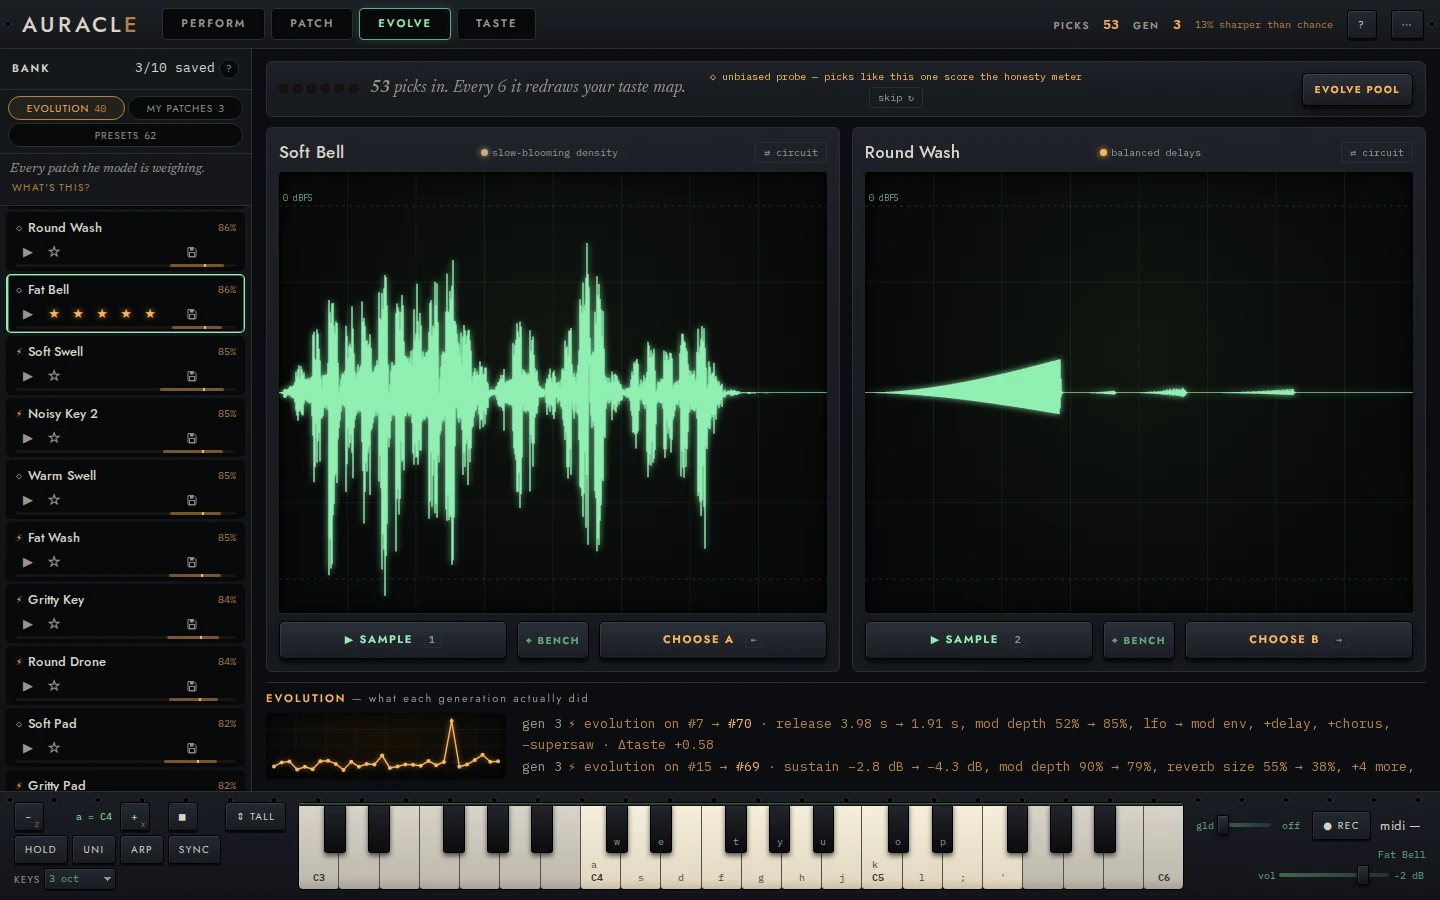
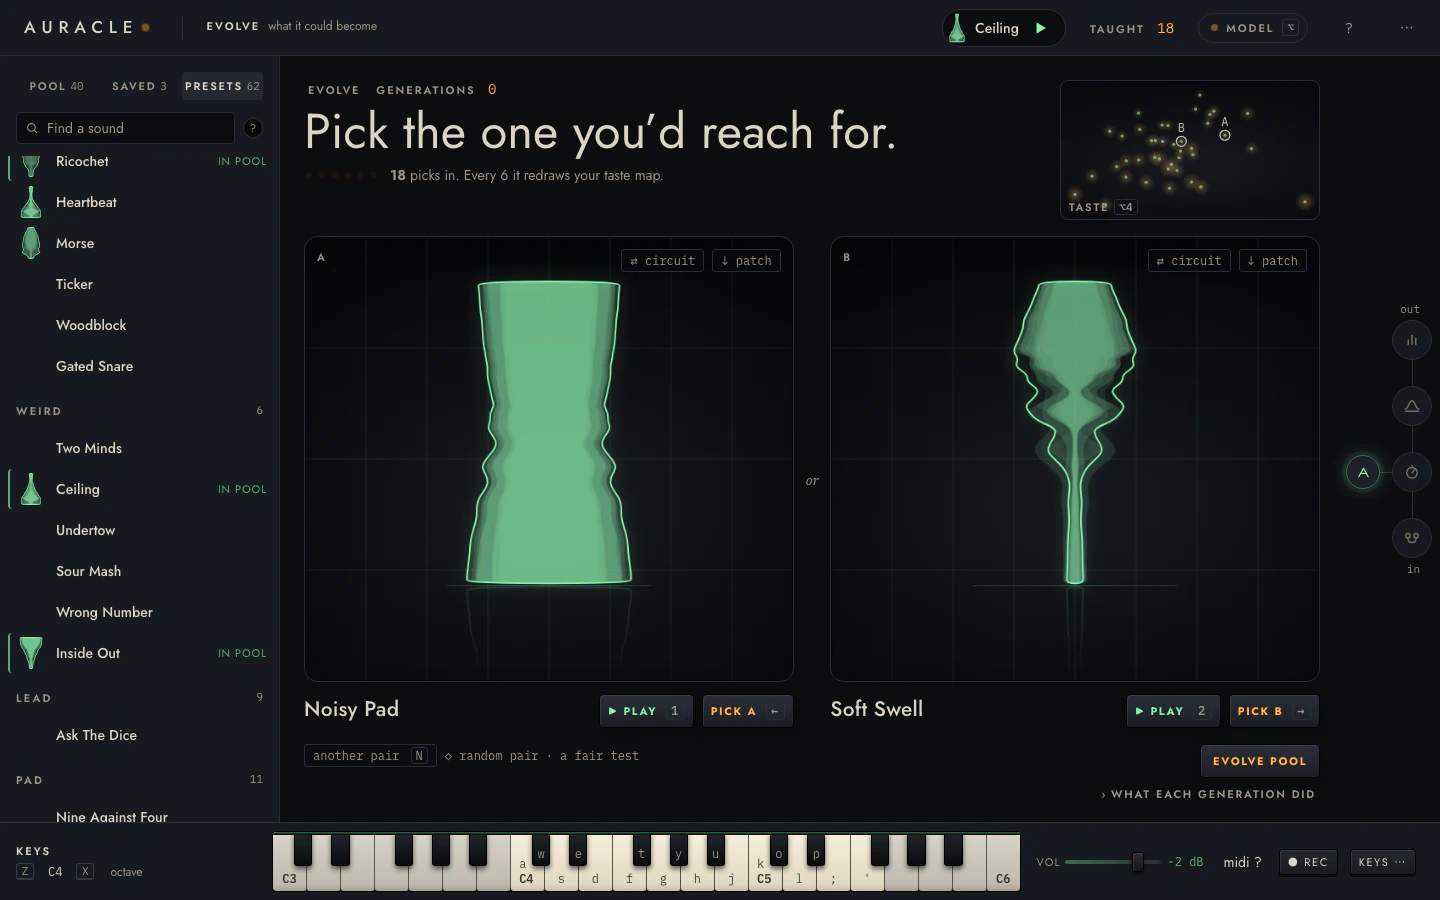
fix(web): the lineage log is current while folded, and B's face is not a play button
Folding "what each generation did" behind a disclosure gave its spark no
size, and drawLineage returned before writing the log, so the log said "No
generations yet" after generations had run until it was opened (caught by
evolve_truth's generation with no farm). The spark is drawn only with a
size now, and the log is written either way.

A click on B in the well played the sound in hand, which B is not; it now
leaves B to PEEK and B held. The well's and EVOLVE's large faces are drawn
at 2× at most: each is a 480 px picture in the cache the bank's thumbnails
share. How it works sits on a veil, clear of the well's corner.

Specs: booth reads Blend's slider; offer_moments reads the face where it
stands once B is in the well (and again once B has left), since the well
makes room for B; pad_keys waits out the dial's sweep before keeping;
perform_touch tries the XY field's corners, as a one-way control stops at
the center. The booth guide and comment no longer say the XY dot follows
attract's hand (the dials turn; XY is a mode of the well). PERFORM's and
EVOLVE's landing figures are re-captured to the new layout, with their alt
text.

Claude-Session: https://claude.ai/code/session_01GMg3KFS9ggSrYdvGkbBshW

diff --git a/apps/web/main.js b/apps/web/main.js
@@ -403,9 +403,9 @@ const wellBox = (w, h, scale = 1) => {
   return { x: (w - bw) / 2, y: h * 0.79 - bh, w: bw, h: bh };
 };
 const FACE_OPTS = {
-  well: () => ({ box: wellBox(...FACE_SIZE.well), glow: 18, reflection: true, line: 2 }),
-  wellb: () => ({ box: wellBox(...FACE_SIZE.wellb, 0.62), glow: 12, reflection: true, line: 1.6, color: tok("--phos-b") }),
-  evolve: () => ({ box: wellBox(...FACE_SIZE.evolve), glow: 18, reflection: true, line: 2 }),
+  well: () => ({ box: wellBox(...FACE_SIZE.well), glow: 18, reflection: true, line: 2, dprMax: 2 }),
+  wellb: () => ({ box: wellBox(...FACE_SIZE.wellb, 0.62), glow: 12, reflection: true, line: 1.6, color: tok("--phos-b"), dprMax: 2 }),
+  evolve: () => ({ box: wellBox(...FACE_SIZE.evolve), glow: 18, reflection: true, line: 2, dprMax: 2 }),
 };
 // Bounded: a bench edit is a new tree, so a new ref, key and drawing each
 // time. The least recently used go past FACE_KEEP (the bank's faces are used
@@ -487,8 +487,11 @@ function faceMarkup(target, kind, ask = true, build = true) {
 }
 /** One face drawn at `w × h` CSS px, at the screen's density, as a PNG. */
 let faceCanvas = null;
-function faceImage(face, w, h, opts = {}) {
-  const dpr = Math.min(3, Math.max(1, window.devicePixelRatio || 1));
+function faceImage(face, w, h, { dprMax = 3, ...opts } = {}) {
+  // A large face (`FACE_FLUID`) is drawn at most at 2×: it is scaled to its
+  // well anyway, and each one is a 480 px tall picture in the cache the
+  // bank's thumbnails share.
+  const dpr = Math.min(dprMax, Math.max(1, window.devicePixelRatio || 1));
   const c = faceCanvas || (faceCanvas = document.createElement("canvas"));
   c.width = Math.round(w * dpr);
   c.height = Math.round(h * dpr);
@@ -20451,16 +20454,20 @@ function drawLineage() {
   const canvas = $("lineage-spark");
   const ctx = scopeCtx(canvas);
   const { width: w, height: h } = canvas;
-  if (w === 0) return;
+  // Folded (what each generation did is a disclosure), the spark has no size
+  // and is drawn when it opens; the log below is written either way, so it
+  // is current the moment it is opened.
   const dpr = window.devicePixelRatio || 1;
-  ctx.clearRect(0, 0, w, h);
-  drawGraticule(ctx, w, h, inkAlpha(INK.amber, 0.05));
+  if (w > 0) {
+    ctx.clearRect(0, 0, w, h);
+    drawGraticule(ctx, w, h, inkAlpha(INK.amber, 0.05));
+  }
 
   // One point per step, oldest to newest: the child's predicted score as the
   // model saw it when the step was made (amber bred, green your edit). The
   // guide says exactly this; it used to say "the pool's utility over
   // generations", which this never plotted.
-  if (lineage.length > 0) {
+  if (w > 0 && lineage.length > 0) {
     const us = lineage.map((ev) => ev.child_utility);
     const [u0, u1] = [Math.min(...us, 0), Math.max(...us, 0.001)];
     const sx = (i) => 8 * dpr + (i / Math.max(1, us.length - 1)) * (w - 16 * dpr);

diff --git a/www/landing/index.html b/www/landing/index.html
@@ -213,7 +213,7 @@
 
     <div class="shot-pane" role="tabpanel" id="pane-perform" aria-labelledby="tab-perform" tabindex="0">
       <!-- films:pane-perform --><!-- /films:pane-perform -->
-      <img src="assets/screens/perform.webp" alt="The PERFORM view: eight round controls named Bright, Snap, Motion, Body, Grit, Space, Blend, and Wander, six large pads (Keep, Back, Offer, Take, Peek, and Freeze), a strip saying an offer waits in B, and a list of the sound's own knobs moving underneath." width="1440" height="900" loading="eager" decoding="async">
+      <img src="assets/screens/perform.webp" alt="The PERFORM view: on the left the sound's family and name, large, and a well holding its face, with the offer in B standing beside it in amber and a Blend slider under the two; on the right six round controls named Bright, Snap, Motion, Body, Grit, and Space, a list of the sound's own knobs they move, and the pads Wander, Next, Peek, Take, and Pass." width="1440" height="900" loading="eager" decoding="async">
       <p class="shot-cap"><strong>PERFORM.</strong> Play the sound with controls named
       for what you hear, from BRIGHT to SPACE. Each one turns the few knobs that move
       this sound most in its direction. Press OFFER, and it grows a variant into B for
@@ -231,10 +231,10 @@
 
     <div class="shot-pane" role="tabpanel" id="pane-evolve" aria-labelledby="tab-evolve" tabindex="0" hidden>
       <!-- films:pane-evolve --><!-- /films:pane-evolve -->
-      <img src="assets/screens/evolve.webp" alt="The EVOLVE view: two sounds side by side with their waveforms, a teaching meter reading fifty-three picks in, and a log below of what each generation changed." width="1440" height="900" loading="lazy" decoding="async">
+      <img src="assets/screens/evolve.webp" alt="The EVOLVE view: the question Pick the one you'd reach for, with a teaching meter under it and a small taste map beside it, and two sounds side by side, each with its face large in a well." width="1440" height="900" loading="lazy" decoding="async">
       <p class="shot-cap"><strong>EVOLVE.</strong> Pick between two sounds, and a meter
-      counts the picks until it next redraws your taste. Press EVOLVE POOL, and the log
-      says what each generation changed, knob by knob and module by module.</p>
+      counts the picks until it next redraws your taste. Press EVOLVE POOL, and what
+      each generation did says what it changed, knob by knob and module by module.</p>
     </div>
 
     <div class="shot-pane" role="tabpanel" id="pane-taste" aria-labelledby="tab-taste" tabindex="0" hidden>

diff --git a/tests/web/perform_offer_moments.spec.js b/tests/web/perform_offer_moments.spec.js
@@ -121,9 +121,11 @@ test("an offer grows from the sound in hand, fills when taken, and folds back wh
   await page.keyboard.down("a");
 
   // Grown: B's first frame is the sound's face, its last is B's own place.
+  // The face is read where it stands once B is in the well beside it (the
+  // well makes room for B as it grows, a jump, before B grows from it).
   let n0 = (await anims(page)).length;
-  const name0 = await faceBox(page);
   await grow(page, OFFER_MS);
+  const name0 = await faceBox(page);
   await expect(page.locator(".pf-offer")).toHaveAttribute("data-moment", "grown");
   let grown = (await anims(page)).slice(n0).find((a) => !/ghost/.test(a.cls));
   expect(grown, "B grows").toBeTruthy();
@@ -146,9 +148,11 @@ test("an offer grows from the sound in hand, fills when taken, and folds back wh
   await peek(page, 1800);
   n0 = (await anims(page)).length;
   const before = await page.locator(".pf-name").textContent();
-  const nameAtTake = await faceBox(page);
   await page.locator(".pf-pad", { hasText: "Take" }).click();
   await expect(page.locator(".pf-offer")).toHaveAttribute("data-moment", "taken");
+  // Taken, B leaves the well and the face stands alone again: B goes into
+  // the face where it stands then.
+  const nameAtTake = await faceBox(page);
   const after = (await anims(page)).slice(n0);
   const fill = after.find((a) => /pf-ghost-fill/.test(a.cls));
   expect(fill, "B fills").toBeTruthy();

diff --git a/tests/web/perform_touch.spec.js b/tests/web/perform_touch.spec.js
@@ -47,8 +47,14 @@ test("on a touch screen every PERFORM function the layout moved is a tap away, w
   // has moved, so the bar offers KEEP, which answers a tap.
   await page.locator(".pf-xy-btn").tap();
   await expect(page.locator(".pf-well")).toHaveAttribute("data-mode", "xy");
+  // A control that turns one way only stops at the center on the other, so
+  // the corners are tried until one moves the sound.
   const f = await page.locator(".pf-xy-field").boundingBox();
-  await page.touchscreen.tap(f.x + f.width * 0.85, f.y + f.height * 0.15);
+  for (const [fx, fy] of [[0.85, 0.15], [0.15, 0.85], [0.15, 0.15], [0.85, 0.85]]) {
+    await page.touchscreen.tap(f.x + f.width * fx, f.y + f.height * fy);
+    const moved = await expect(page.locator(".pf-moved.on")).toHaveCount(1, { timeout: 2_000 }).then(() => true, () => false);
+    if (moved) break;
+  }
   await expect(page.locator(".pf-moved")).toHaveClass(/\bon\b/);
   await page.locator(".pf-xy-btn").tap();
   await expect(page.locator(".pf-well")).toHaveAttribute("data-mode", "face");

diff --git a/tests/web/pad_keys.spec.js b/tests/web/pad_keys.spec.js
@@ -99,9 +99,13 @@ test("↵ keeps only with no control focused, ⇧⌫ goes back, and at home each
   await k.focus();
   for (let i = 0; i < 8; i++) await page.keyboard.press("ArrowUp");
   await expect(bar).toHaveClass(/\bon\b/);
-  // ↵ with the dial focused is the dial's: nothing is kept.
+  // ↵ with the dial focused is the dial's (its sweep through both ends and
+  // back to where it was): nothing is kept. Waited out, so the sweep's
+  // return does not land after the Keep below.
+  const at = await k.getAttribute("aria-valuenow");
   await page.keyboard.press("Enter");
-  await page.waitForTimeout(1500);
+  await expect(k).not.toHaveAttribute("aria-valuenow", at, { timeout: 5_000 });
+  await expect(k).toHaveAttribute("aria-valuenow", at, { timeout: 10_000 });
   await expect(bar).toHaveClass(/\bon\b/);
   await expect(page.locator("#toasts")).not.toContainText("Kept: this is home now.");
   // With nothing focused, ↵ keeps.

diff --git a/apps/web/style.css b/apps/web/style.css
@@ -6308,7 +6308,10 @@ html.handheld .handheld-gate {
   z-index: 2;
   overflow-y: auto;
   overscroll-behavior: contain;
-  padding: var(--s4) var(--s5);
+  /* Clear of the well's corner (XY and stage mode), on a veil over the
+     dimmed face so the words read. */
+  padding: calc(var(--s7) + var(--s2)) var(--s5) var(--s4);
+  background: var(--scrim-82);
   font-family: var(--font-silk);
   font-size: var(--t-body);
   color: var(--silk-dim);
@@ -6316,7 +6319,7 @@ html.handheld .handheld-gate {
 }
 .pf-why-body.hidden { display: none; }
 .pf-why-body b { color: var(--silk); font-weight: 600; }
-.pf-why-x { position: sticky; top: 0; float: right; margin-left: var(--s3); }
+.pf-why-x { position: absolute; top: var(--s3); left: var(--s3); }
 
 /* Under 1180 px the two columns narrow: smaller dials, the pads' sub-words
    and names in one size, Wander's dial smaller. */

diff --git a/tests/web/booth.spec.js b/tests/web/booth.spec.js
@@ -28,9 +28,9 @@ test("attract plays in PERFORM, hands over on a key, and teaches nothing", async
   await page.keyboard.press("h");
   await expect(page.locator("#booth-attract")).toHaveClass(/hidden/, { timeout: 5000 });
   await page.waitForTimeout(1000);
-  for (const i of [6, 7]) {
-    await expect(page.locator(`.pf-knob[data-i="${i}"]`)).toHaveAttribute("aria-valuenow", "0.00");
-  }
+  // Blend (the slider in the well) and Wander (at the start of the pads) home.
+  await expect(page.locator('.pf-blend[data-i="6"] input')).toHaveAttribute("aria-valuenow", "0.00");
+  await expect(page.locator('.pf-knob[data-i="7"]')).toHaveAttribute("aria-valuenow", "0.00");
   expect(await page.locator("#duel-count").textContent()).toBe(picks);
   expect(errs).toEqual([]);
 });

diff --git a/apps/web/booth.js b/apps/web/booth.js
@@ -5,7 +5,7 @@
 //
 // 1. **Attract.** After a minute with nobody at the keys, the instrument
 //    plays itself in PERFORM: a curated patch, a chord progression, two named
-//    controls moving under an invisible hand (the XY dot follows), then hands
+//    controls moving under an invisible hand (their dials turn), then hands
 //    off while Wander drifts the knobs, then an offer grown into B and blended
 //    in. The patch changes every cycle. It is the product's pitch, performed.
 // 2. **Hand over.** Any key, click, touch, wheel or MIDI note stops it on the

diff --git a/apps/web/perform.js b/apps/web/perform.js
@@ -3174,8 +3174,9 @@ export function createPerform(host) {
   });
   // A click on the sound plays it, as Space does (the specimen's well), and
   // stage mode's tap: on a touch screen there is no Space.
+  // A click on B is not on the sound in hand: B is heard with PEEK or B.
   faces.addEventListener("click", (e) => {
-    if (wellMode !== "face" || e.target.closest("button, input")) return;
+    if (wellMode !== "face" || e.target.closest("button, input, .pf-offer")) return;
     host.play?.();
   });
 

diff --git a/docs/plans/008-the-shell.md b/docs/plans/008-the-shell.md
@@ -124,6 +124,11 @@ and C3; round 2's decisions govern PERFORM):
   canvas drawn per frame, so a face redraws only when its render or the bank
   changes (ADR-012), and B's is amber, smaller, on the held face's floor
   line. Stage mode keeps its own canvas.
+- **A click on the held face plays the phrase** (Space's ▶, as the mock's
+  well does, and a tap on a touch screen); a click on B does not, since B is
+  heard with PEEK or B held.
+- **The *vel* tick** sits in its control's top-left corner rather than under
+  the name, so no word in the cell moves for it (a mark never moves a label).
 - **Share** opens the existing picture panel on *the sound's card*; the
   mock's share dialog (Copy image, Copy name) is not built.
 - **Freeze has no `aria-pressed`.** Wander is a slider, and ARIA does not

diff --git a/www/docs/src/getting-started/running-locally.md b/www/docs/src/getting-started/running-locally.md
@@ -82,7 +82,7 @@ What happens:
 
 - **It plays itself.** With nobody at the keys, the instrument plays itself in
   PERFORM, through a set of presets. It holds a chord progression, moves two
-  named controls under an invisible hand (the XY pad follows), lets Wander turn
+  named controls under an invisible hand (their dials turn), lets Wander turn
   the knobs, then grows an offer in B and blends it in.
 - **It hands over.** Any key, click, touch, wheel, or MIDI note stops it on
   the spot. The visitor is holding whatever was playing, with Wander still and
